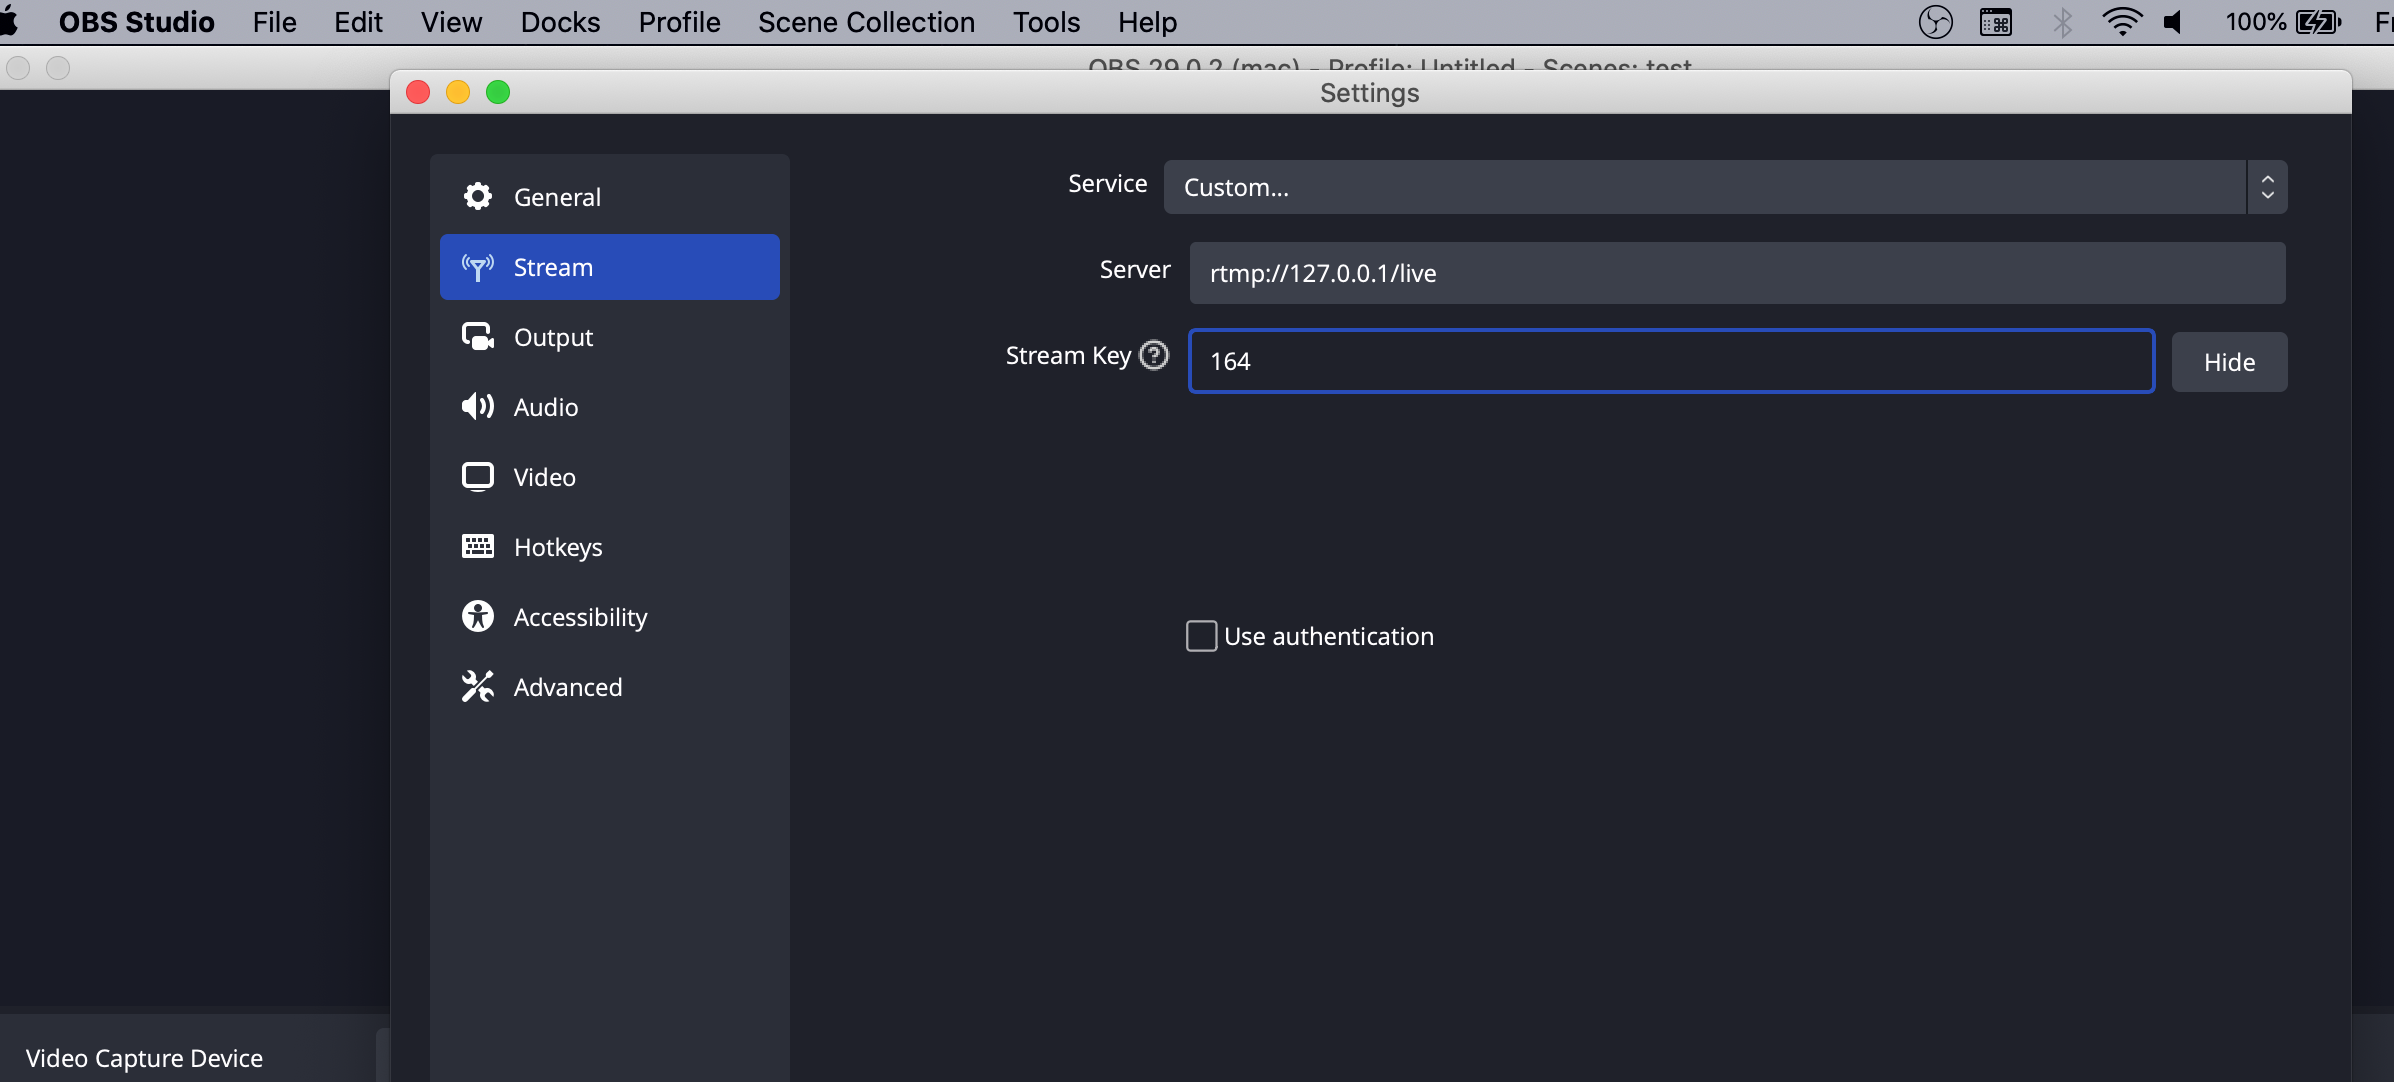
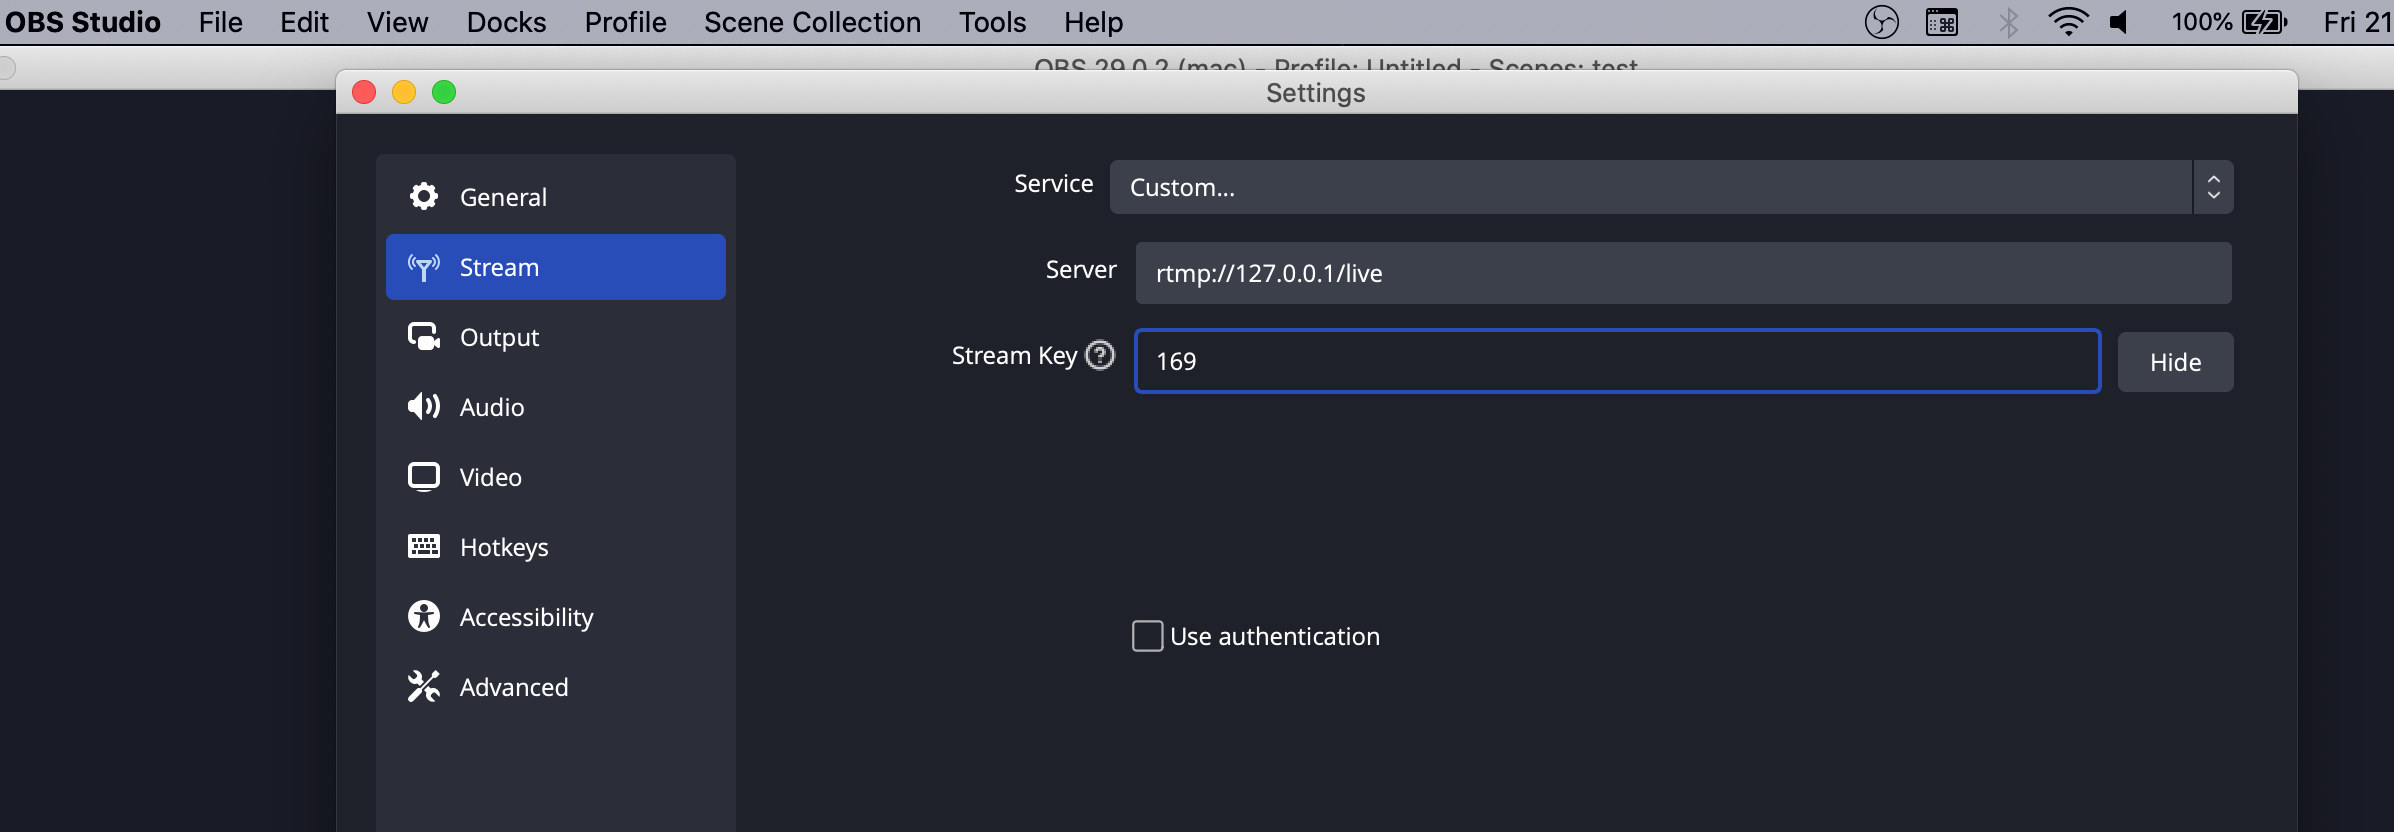
update obs

diff --git a/livestream/urls.py b/livestream/urls.py
@@ -1,7 +1,7 @@
 from django.contrib import admin
 from django.urls import path, include
 from rest_framework_simplejwt.views import TokenObtainPairView, TokenRefreshView
-from streaming.views import RegisterView, create_donation, ConfirmDonationView, CreateCommentView, StreamCommentsView, index
+from streaming.views import RegisterView, ConfirmDonationView, CreateCommentView, StreamCommentsView, donate, index, midtrans_notification
 from drf_yasg.views import get_schema_view
 from drf_yasg import openapi
 from django.conf.urls.static import static
@@ -17,7 +17,6 @@ schema_view = get_schema_view(
         license=openapi.License(name="BSD License"),
     ),
     public=True,
-    #  permission_classes=(permissions.AllowAny,),
 )
 
 urlpatterns = [
@@ -27,8 +26,9 @@ urlpatterns = [
     path('api/register/', RegisterView.as_view(), name='register'),
     path('api/token/', TokenObtainPairView.as_view(), name='token_obtain_pair'),
     path('api/token/refresh/', TokenRefreshView.as_view(), name='token_refresh'),
-    path('api/donations/create/', create_donation, name='create_donation'),
     path('api/donations/<int:id>/confirm/', ConfirmDonationView.as_view(), name='confirm_donation'),
+    path('donate/', donate, name='donate'),
+    path('midtrans-notification/', midtrans_notification, name='midtrans_notification'),
     path('api/comments/create/', CreateCommentView.as_view(), name='create_comment'),
     path('api/comments/<int:stream_id>/', StreamCommentsView.as_view(), name='stream_comments'),
     path('swagger/',  schema_view.with_ui('swagger', cache_timeout=0), name='schema-swagger-ui'),

diff --git a/README.md b/README.md
@@ -78,9 +78,15 @@ python manage.py runserver
 ```bash
 celery -A livestream worker --loglevel=info
 ```
+## Start stream
+
+![Alt text](image/start.png)
+
 
 ## OBS Setting
-
+```bash
+makesure stream keys is same with start stream message
+```
 ![Alt text](image/obs.png)
 
 
